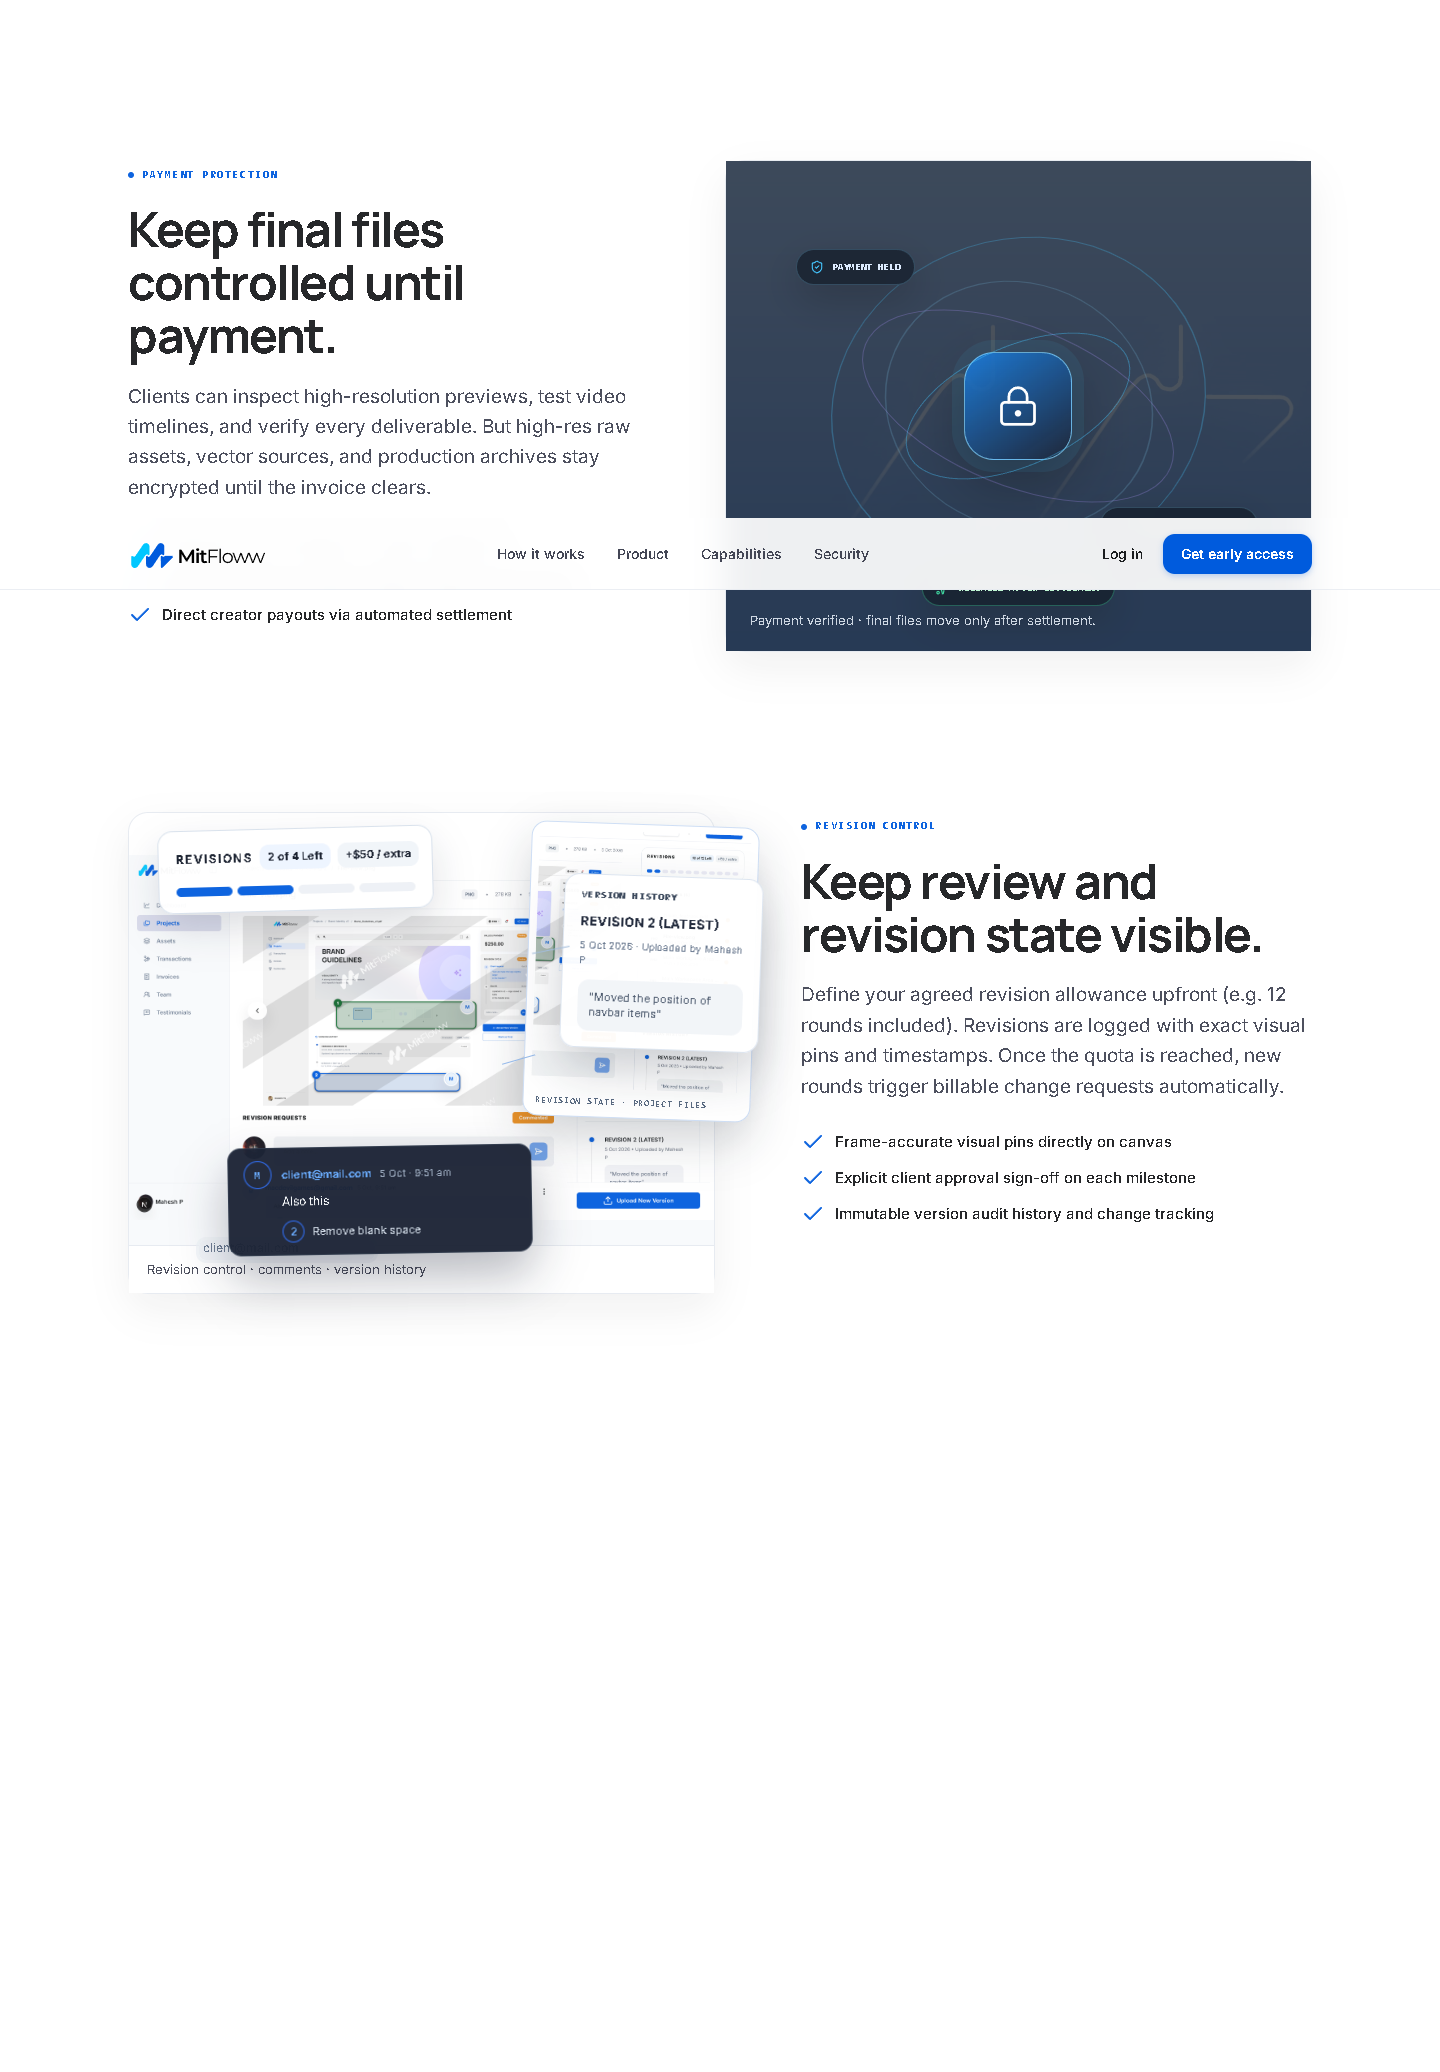
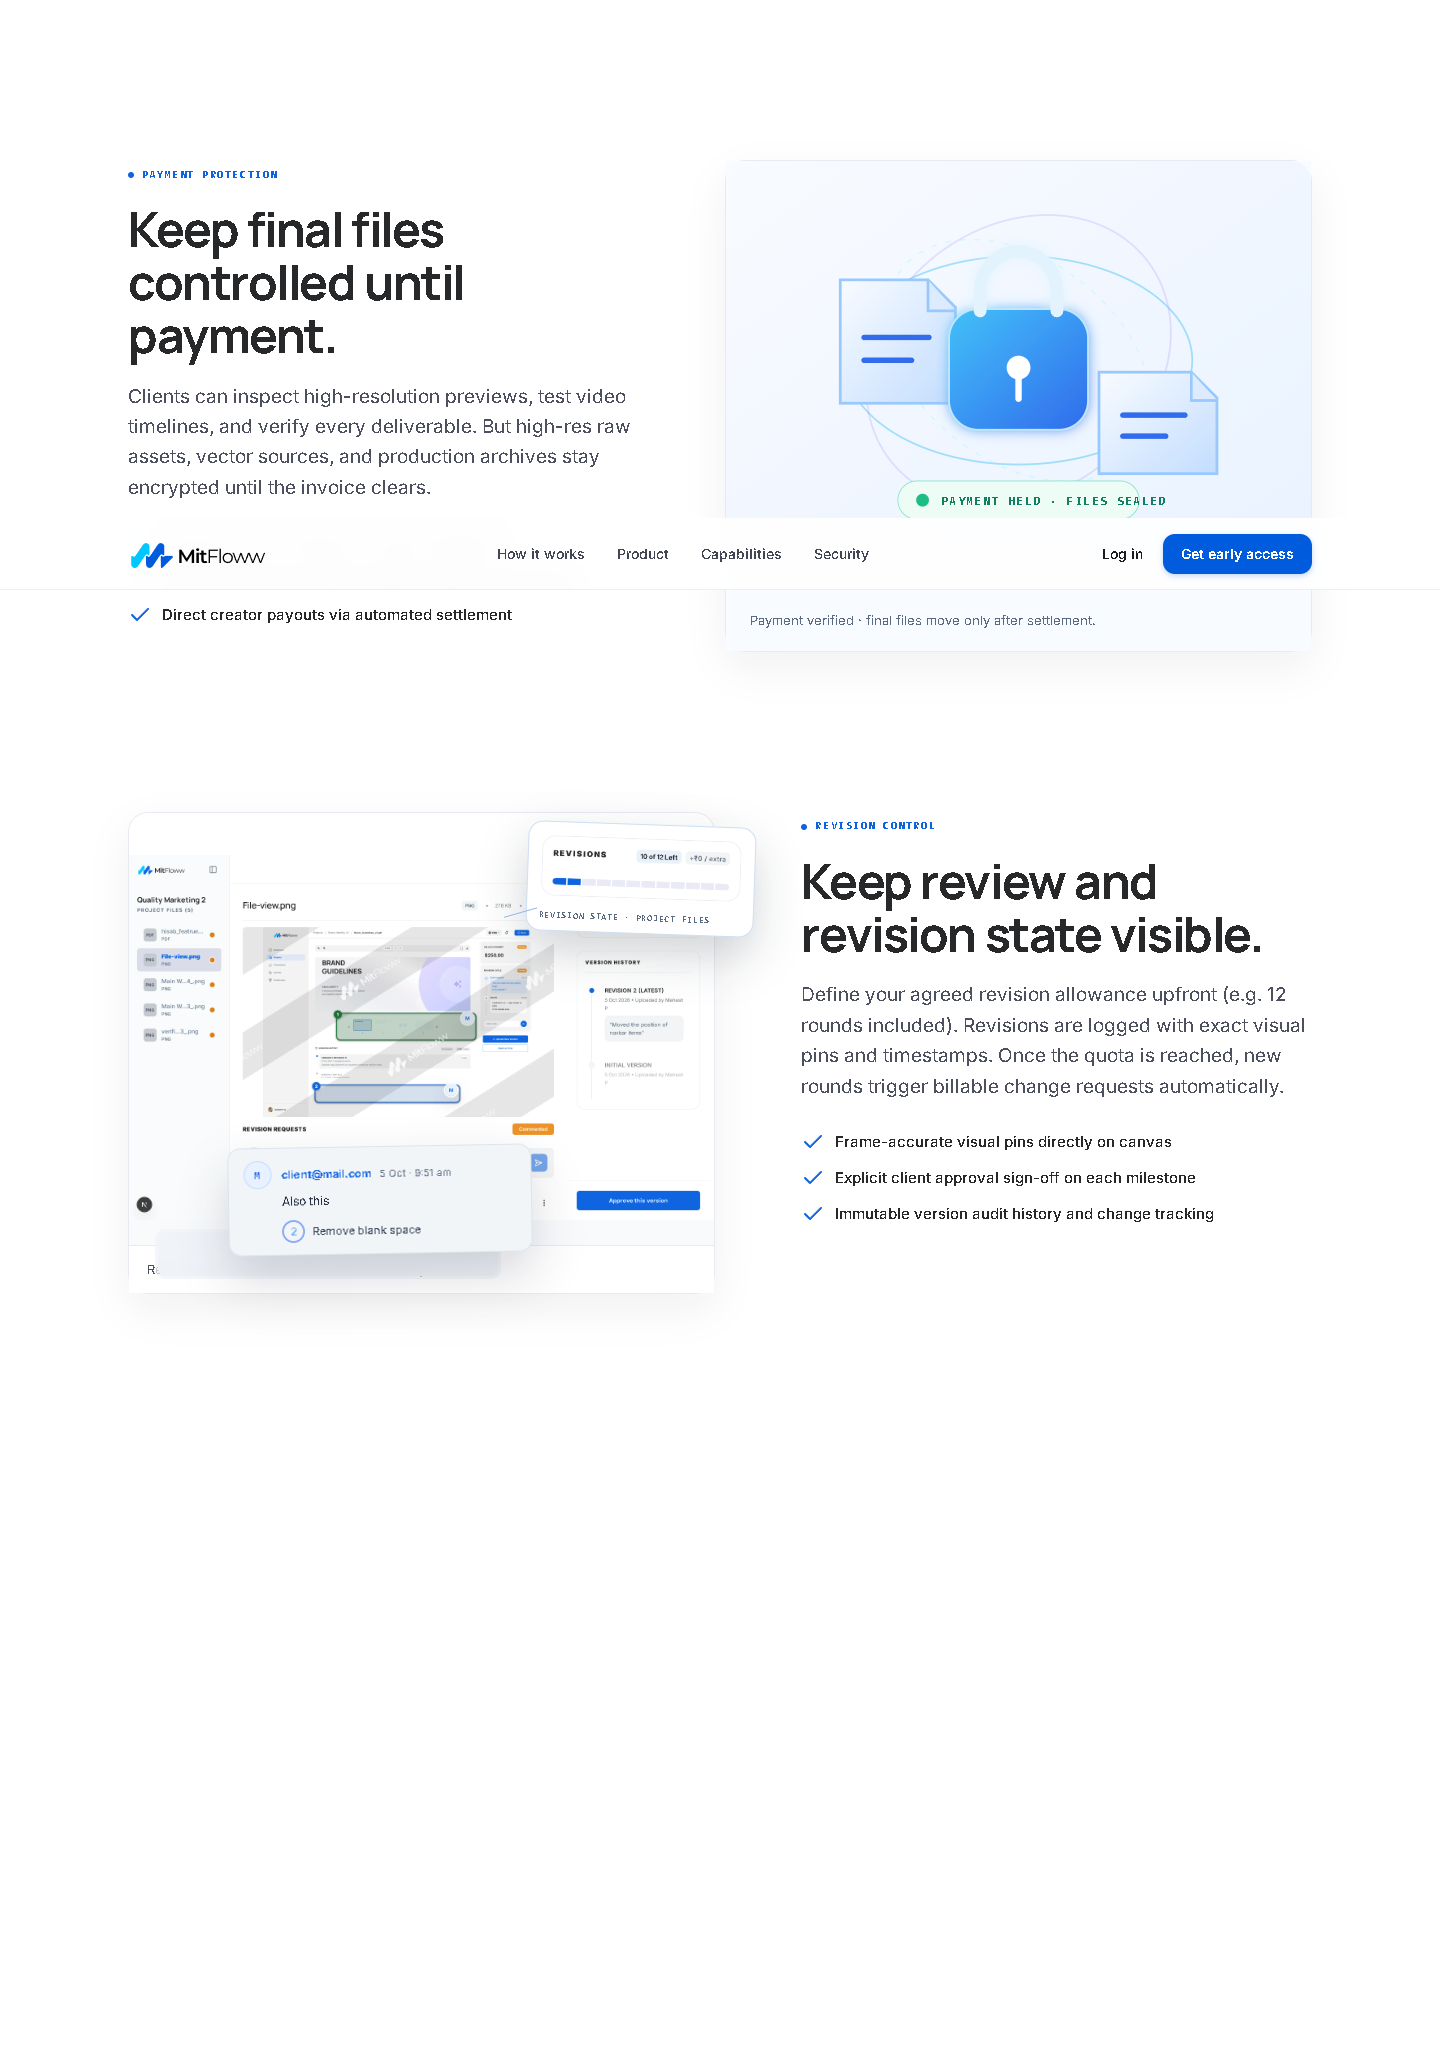
Update assets and enhance payment workflow visuals

Changed region(s): [[0.5, 0.0618, 0.9375, 0.2471], [0.0938, 0.4015, 0.5625, 0.6178], [0.5, 0.278, 0.9375, 0.3398]]

diff --git a/index.html b/index.html
@@ -471,7 +471,7 @@
           </div>
           <img 
             id="showcase-current-img" 
-            src="assets/real_light_projects.png" 
+            src="assets/ui-projects-light.webp" 
             alt="Real MitFloww Project Hub interface" 
             width="1600" 
             height="1000"
@@ -518,17 +518,39 @@
         </div>
         <div class="capability-visual-side payment-motion-side" data-reveal="right">
           <figure class="payment-motion-art" aria-label="Payment protection motion graphic">
-            <video class="payment-motion-video" autoplay muted loop playsinline aria-hidden="true" poster="assets/section_motion.png">
-              <source src="assets/brand-motion.mp4" type="video/mp4">
-            </video>
-            <div class="payment-motion-overlay">
-              <span class="payment-motion-orbit payment-motion-orbit-one"></span>
-              <span class="payment-motion-orbit payment-motion-orbit-two"></span>
-              <div class="payment-motion-lock"><i data-lucide="lock-keyhole"></i></div>
-              <div class="payment-motion-label payment-motion-label-top"><i data-lucide="shield-check"></i><span>PAYMENT HELD</span></div>
-              <div class="payment-motion-label payment-motion-label-bottom"><i data-lucide="file-lock-2"></i><span>MASTER FILES SEALED</span></div>
-              <div class="payment-motion-release"><i data-lucide="sparkles"></i><span>RELEASED AFTER SETTLEMENT</span></div>
-            </div>
+            <svg class="payment-motion-vector" viewBox="0 0 640 460" role="img" aria-label="Animated vector showing protected files circling a payment lock">
+              <defs>
+                <linearGradient id="vector-space" x1="0" y1="0" x2="1" y2="1"><stop offset="0" stop-color="#f8fbff" /><stop offset="1" stop-color="#e7f1ff" /></linearGradient>
+                <linearGradient id="vector-lock" x1="0" y1="0" x2="1" y2="1"><stop offset="0" stop-color="#38bdf8" /><stop offset="1" stop-color="#2563eb" /></linearGradient>
+                <linearGradient id="vector-file" x1="0" y1="0" x2="1" y2="1"><stop offset="0" stop-color="#f8fbff" /><stop offset="1" stop-color="#bfdbfe" /></linearGradient>
+                <filter id="vector-glow"><feGaussianBlur stdDeviation="7" result="blur" /><feMerge><feMergeNode in="blur" /><feMergeNode in="SourceGraphic" /></feMerge></filter>
+              </defs>
+              <rect x="0" y="0" width="640" height="460" rx="22" fill="url(#vector-space)" />
+              <g class="payment-vector-orbits" fill="none" stroke-linecap="round">
+                <ellipse cx="320" cy="218" rx="190" ry="114" stroke="#38bdf8" stroke-opacity=".45" stroke-width="2" />
+                <ellipse cx="320" cy="218" rx="146" ry="178" transform="rotate(52 320 218)" stroke="#a78bfa" stroke-opacity=".26" stroke-width="2" />
+                <ellipse cx="320" cy="218" rx="110" ry="162" transform="rotate(-52 320 218)" stroke="#67e8f9" stroke-opacity=".22" stroke-width="1.5" stroke-dasharray="5 11" />
+              </g>
+              <g class="payment-vector-file payment-vector-file-one">
+                <path d="M125 130h96l30 30v105h-126z" fill="url(#vector-file)" stroke="#93c5fd" stroke-width="3" />
+                <path d="M221 130v34h30" fill="#dbeafe" stroke="#93c5fd" stroke-width="3" />
+                <path d="M151 193h71M151 218h52" fill="none" stroke="#2563eb" stroke-width="6" stroke-linecap="round" />
+              </g>
+              <g class="payment-vector-file payment-vector-file-two">
+                <path d="M408 231h101l28 28v83H408z" fill="url(#vector-file)" stroke="#93c5fd" stroke-width="3" />
+                <path d="M509 231v31h28" fill="#dbeafe" stroke="#93c5fd" stroke-width="3" />
+                <path d="M434 278h68M434 301h47" fill="none" stroke="#2563eb" stroke-width="6" stroke-linecap="round" />
+              </g>
+              <g class="payment-vector-lock" filter="url(#vector-glow)">
+                <rect x="244" y="162" width="152" height="132" rx="32" fill="url(#vector-lock)" stroke="#bae6fd" stroke-width="2" />
+                <path d="M278 164v-22c0-24 19-43 42-43s42 19 42 43v22" fill="none" stroke="#e0f2fe" stroke-width="14" stroke-linecap="round" />
+                <circle cx="320" cy="226" r="13" fill="#fff" /><path d="M320 239v21" stroke="#fff" stroke-width="7" stroke-linecap="round" />
+              </g>
+              <g class="payment-vector-status">
+                <rect x="188" y="350" width="264" height="42" rx="21" fill="#ecfdf5" stroke="#34d399" stroke-opacity=".55" />
+                <circle cx="215" cy="371" r="7" fill="#10b981" /><text x="235" y="376" fill="#047857" font-family="monospace" font-size="13" font-weight="700" letter-spacing="1.5">PAYMENT HELD · FILES SEALED</text>
+              </g>
+            </svg>
             <figcaption>Payment verified · final files move only after settlement.</figcaption>
           </figure>
           <figure class="payment-protection-art" hidden>
@@ -654,10 +676,10 @@
         </div>
         <div class="capability-visual-side" data-reveal="left">
           <figure class="authentic-product-shot revision-product-shot">
-            <img src="assets/real_light_user_review_scrolled.png" alt="Real MitFloww revision control and review interface" loading="lazy">
+            <img src="assets/ui-stage-review.webp" alt="Real MitFloww revision control and review interface" loading="lazy">
             <span class="privacy-redaction privacy-redaction-revision" aria-label="Creator email hidden"></span>
             <div class="revision-popover" aria-label="Revision allowance and project files popover">
-              <img src="assets/crop_real_revision_panel.webp" alt="Revision allowance and project files panel" loading="lazy">
+              <img src="assets/crop_real_revision_panel.webp" alt="Revision and project files screenshot crop" loading="lazy">
               <span class="revision-popover-label">Revision state · project files</span>
             </div>
             <div class="revision-quota-popover" aria-label="Revision quota summary">

diff --git a/landing.css b/landing.css
@@ -1731,6 +1731,42 @@ h1, h2, h3, h4, h5, h6 {
 }
 
 .security-state-redaction { display: block; top: 91%; left: 21%; width: 23%; height: 5.5%; }
+.payment-motion-art { background: #f8fbff; }
+.payment-motion-art figcaption { color: #52627a; }
+.overlay-state-payment.is-visible { background: transparent; backdrop-filter: none; }
+.workflow-visual-canvas .scrub-overlay-layer { background: transparent; backdrop-filter: none; }
+.workflow-visual-canvas .scrub-overlay-layer .state-badge-pill { display: none; }
+
+/* Payment Protection is a self-contained animated SVG illustration, never a video. */
+.payment-motion-art::before,
+.payment-motion-art::after { display: none; }
+.payment-motion-vector { display: block; width: 100%; height: auto; aspect-ratio: 640 / 460; }
+.payment-vector-orbits { transform-box: fill-box; transform-origin: center; animation: paymentVectorOrbit 16s linear infinite; }
+.payment-vector-file-one { transform-box: fill-box; transform-origin: center; animation: paymentVectorFileOne 6s ease-in-out infinite; }
+.payment-vector-file-two { transform-box: fill-box; transform-origin: center; animation: paymentVectorFileTwo 6s 1s ease-in-out infinite; }
+.payment-vector-lock { transform-box: fill-box; transform-origin: center; animation: paymentVectorLock 4.8s ease-in-out infinite; }
+.payment-vector-status { animation: paymentVectorStatus 4.8s ease-in-out infinite; }
+@keyframes paymentVectorOrbit { from { transform: rotate(0deg); } to { transform: rotate(360deg); } }
+@keyframes paymentVectorFileOne { 0%, 100% { transform: translate3d(0, 5px, 0) rotate(-2deg); } 50% { transform: translate3d(13px, -9px, 0) rotate(3deg); } }
+@keyframes paymentVectorFileTwo { 0%, 100% { transform: translate3d(0, -5px, 0) rotate(2deg); } 50% { transform: translate3d(-13px, 9px, 0) rotate(-3deg); } }
+@keyframes paymentVectorLock { 0%, 100% { transform: translateY(3px) scale(.985); } 50% { transform: translateY(-7px) scale(1.025); } }
+@keyframes paymentVectorStatus { 0%, 100% { opacity: .72; } 50% { opacity: 1; } }
+
+@media (prefers-reduced-motion: reduce) {
+  .payment-vector-orbits, .payment-vector-file-one, .payment-vector-file-two,
+  .payment-vector-lock, .payment-vector-status { animation: none; }
+}
+
+/* Supplied revision screenshots: one quota crop on the right and one comment card below. */
+.revision-popover { top: -9%; right: -6%; width: min(46%, 330px); padding: 0; border-radius: 14px; transform: rotate(1.5deg); }
+.revision-popover img { border-radius: 13px; }
+.revision-popover-label, .revision-quota-popover, .revision-history-popover { display: none; }
+.revision-comment-popover { color: #172033; background: #f1f4f8; border-color: #dbe3ed; box-shadow: 0 22px 48px rgba(15,23,42,.18); }
+.revision-comment-avatar { color: #2563eb; background: #e7f0ff; border-color: #bfdbfe; }
+.revision-comment-popover strong { color: #075fe4; }
+.revision-comment-popover small { color: #64748b; }
+.revision-comment-popover p { color: #172033; }
+.revision-comment-popover b { color: #334155; }
 
 /* ==========================================================================
    Product-led landing page refinements
@@ -1837,10 +1873,13 @@ h1, h2, h3, h4, h5, h6 {
 .privacy-redaction::after { content: "client@mail.com"; display: block; padding: 2px 4px; color: #64748b; font: 500 clamp(8px, .8vw, 12px)/1.2 var(--font-body); white-space: nowrap; }
 .showcase-visual-frame[data-showcase-view="2"] .privacy-redaction { display: block; top: 20%; left: 10%; width: 31%; height: 5.5%; }
 .showcase-visual-frame[data-showcase-view="2"] .privacy-redaction { top: 28%; left: 25%; width: 25%; height: 5%; }
+.showcase-visual-frame[data-showcase-view="1"] .privacy-redaction { display: block; top: 87%; left: 8%; width: 52%; height: 10%; }
+.showcase-visual-frame[data-showcase-view="1"] .privacy-redaction::after { content: ""; }
 .authentic-product-shot { position: relative; }
 .authentic-product-shot img { display: block; width: 100%; height: auto; max-height: none; object-fit: contain; object-position: top center; }
 .authentic-product-shot .privacy-redaction { display: block; top: 20%; left: 10%; width: 31%; height: 5.5%; }
-.revision-product-shot .privacy-redaction-revision { top: 88%; left: 12%; width: 30%; height: 4.5%; }
+.revision-product-shot .privacy-redaction-revision { top: 86%; left: 5%; width: 58%; height: 10%; }
+.revision-product-shot .privacy-redaction-revision::after { content: ""; }
 
 .authentic-product-shot { margin: 0; overflow: hidden; background: #f8fafc; }
 .authentic-product-shot figcaption { padding: 14px 18px; color: var(--app-sub-text); font-size: 13px; border-top: 1px solid var(--app-container-border); background: #fff; }

diff --git a/landing.js b/landing.js
@@ -144,9 +144,9 @@
 
   const workflowStageImages = [
     "assets/ui-stage-prepare.webp",
-    "assets/ui-client-review-light.webp",
-    "assets/real_light_client_paid.png",
-    "assets/real_light_client_paid.png"
+    "assets/ui-stage-review.webp",
+    "assets/ui-stage-payment.webp",
+    "assets/real_client_paid.png"
   ];
 
   const workflowStageMeta = [
@@ -265,12 +265,12 @@
 
   const showcaseAssets = [
     {
-      src: "assets/real_light_projects.png",
+      src: "assets/ui-projects-light.webp",
       title: "Project Hub · Quality Marketing",
       tag: "5 deliverable projects · Controlled escrow ready"
     },
     {
-      src: "assets/crop_real_revision_wide.webp",
+      src: "assets/ui-stage-review.webp",
       title: "Revision Control · File review",
       tag: "Comments & version history"
     },
